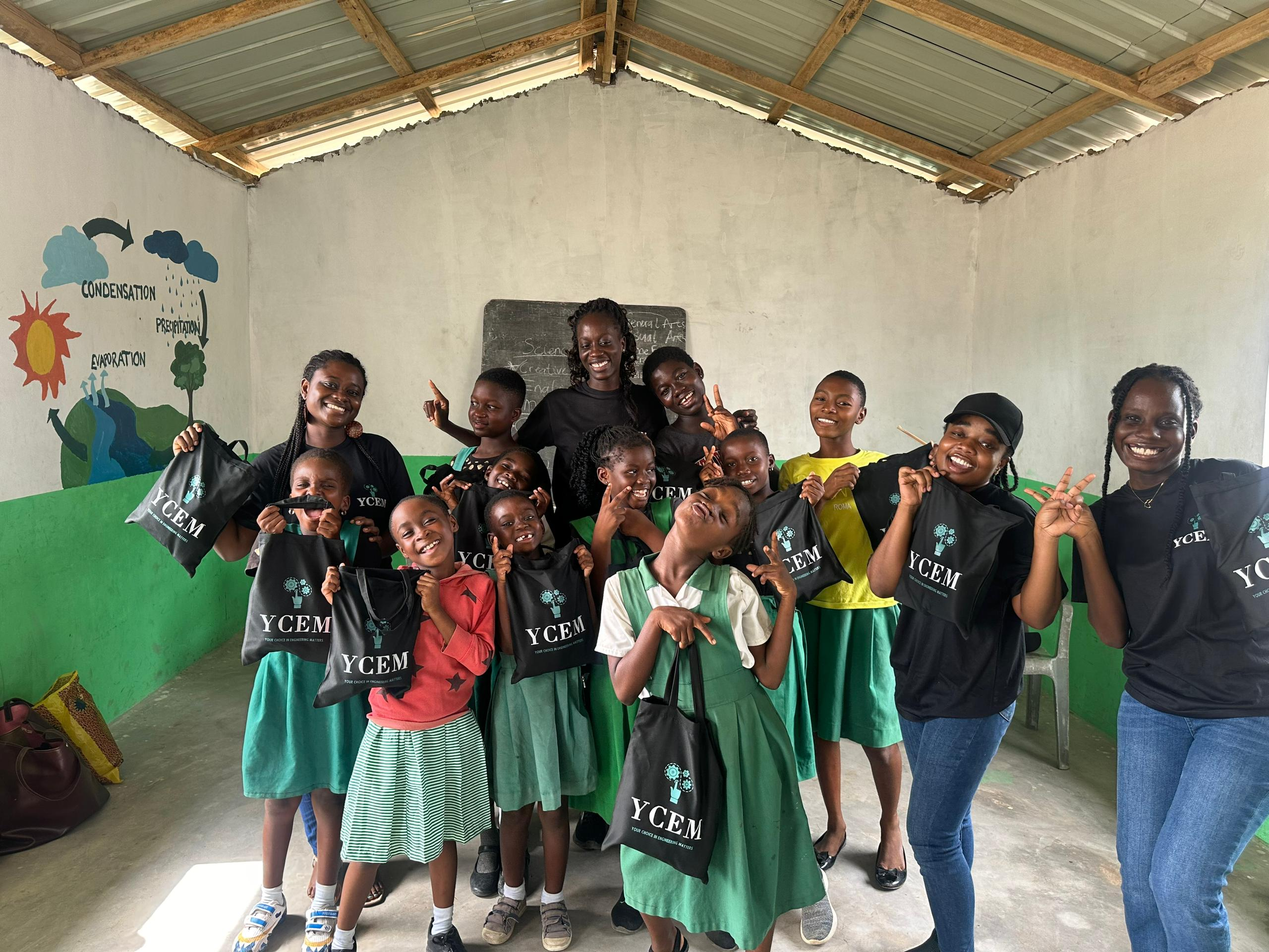
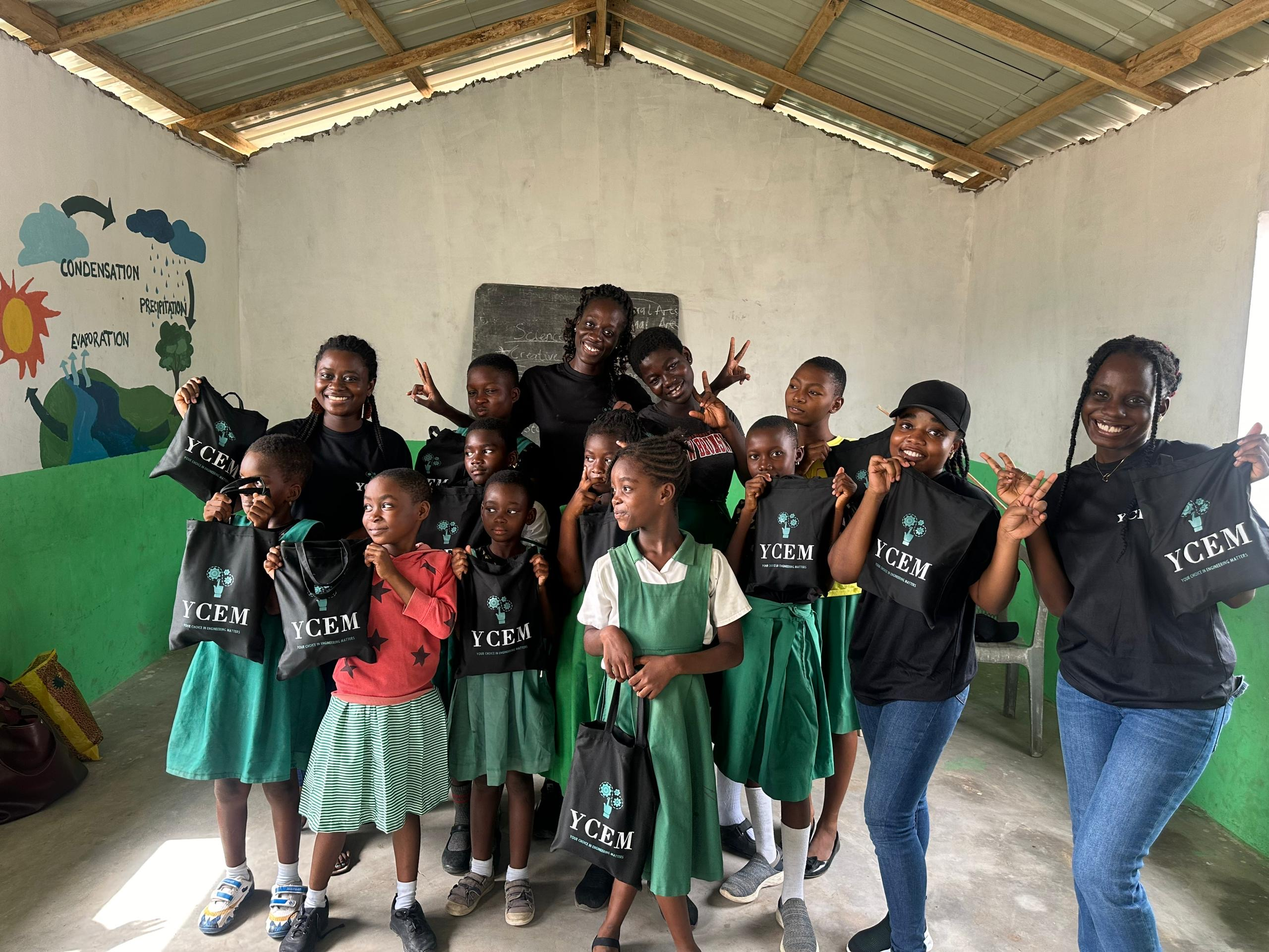
Fixed hero images

diff --git a/src/components/home/home.tsx b/src/components/home/home.tsx
@@ -16,8 +16,8 @@ import {
 import { homeServiceSectionContent } from "../shared/constants";
 import JoiningUs from "../shared/joining-us";
 import { Divider } from "../shared/footer";
-import home1 from "../../../public/hero/hero1.jpg";
-import home2 from "../../../public/hero/hero2.jpg";
+import home1 from "../../../public/home/home1.jpg";
+import home2 from "../../../public/home/home2.jpg";
 import HeroCarousel from "./carouselImage";
 import Event from "./events";
 import Link from "next/link";

diff --git a/src/components/home/carouselImage.tsx b/src/components/home/carouselImage.tsx
@@ -4,7 +4,7 @@ import styled from "styled-components";
 import { Carousel } from "react-bootstrap";
 import accraGirlGroupPic from "../../../public/hero/accra-girls-group.jpg";
 import hero1 from "../../../public/hero/hero1.jpg";
-import hero2 from "../../../public/hero/hero1.jpg";
+import hero2 from "../../../public/hero/hero2.jpg";
 import Link from "next/link";
 
 // Styled-components
